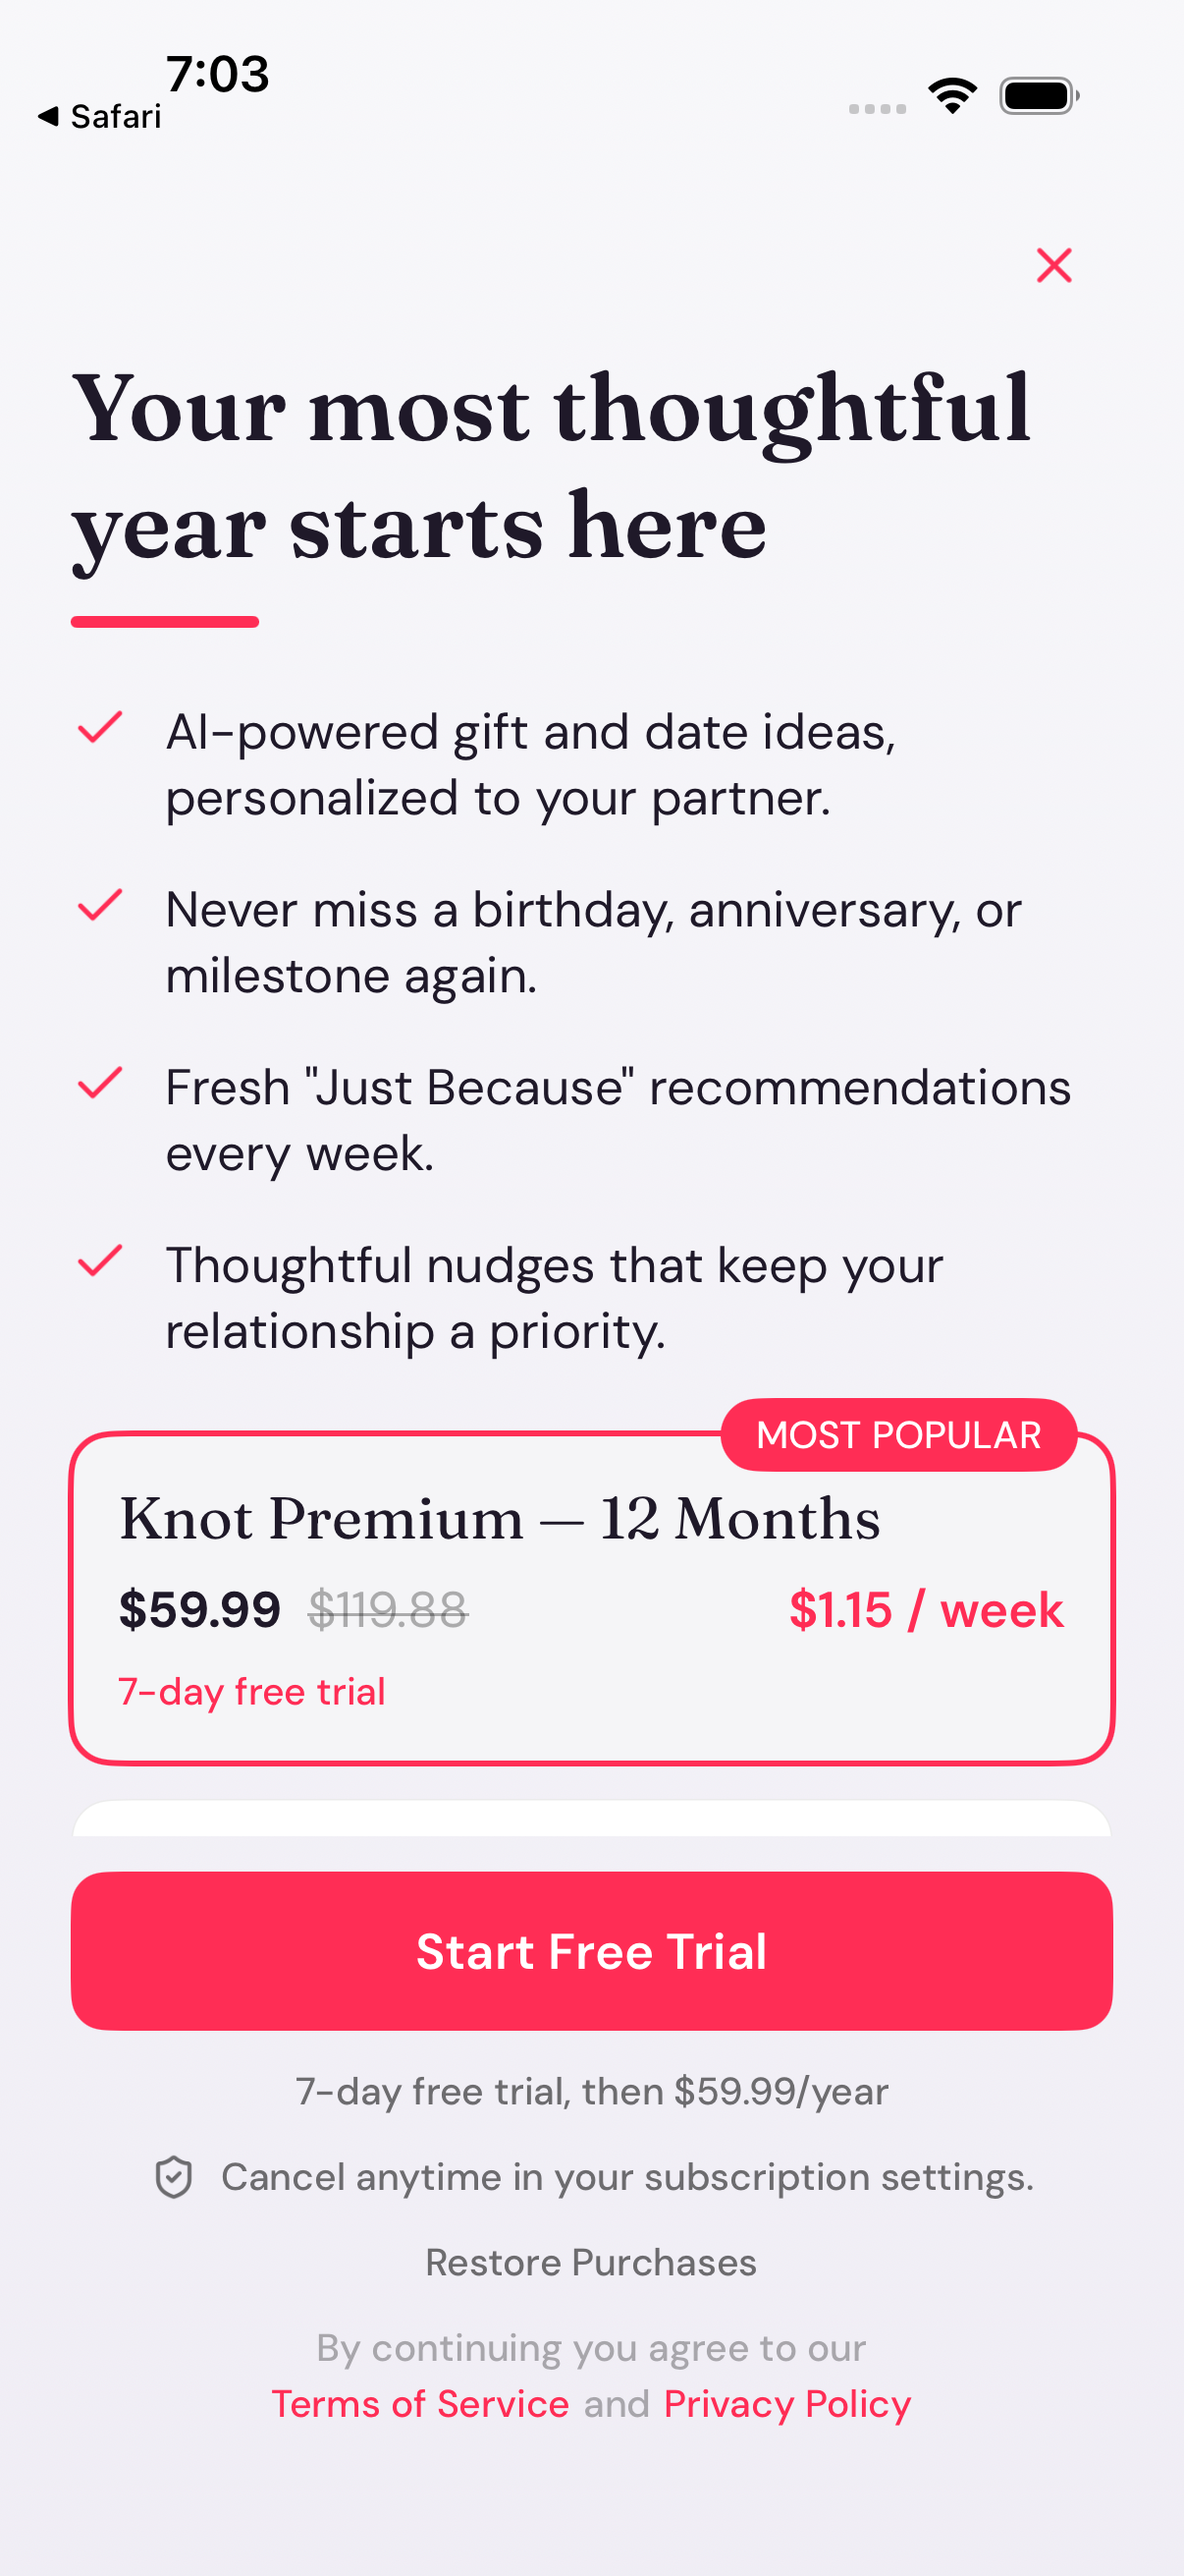
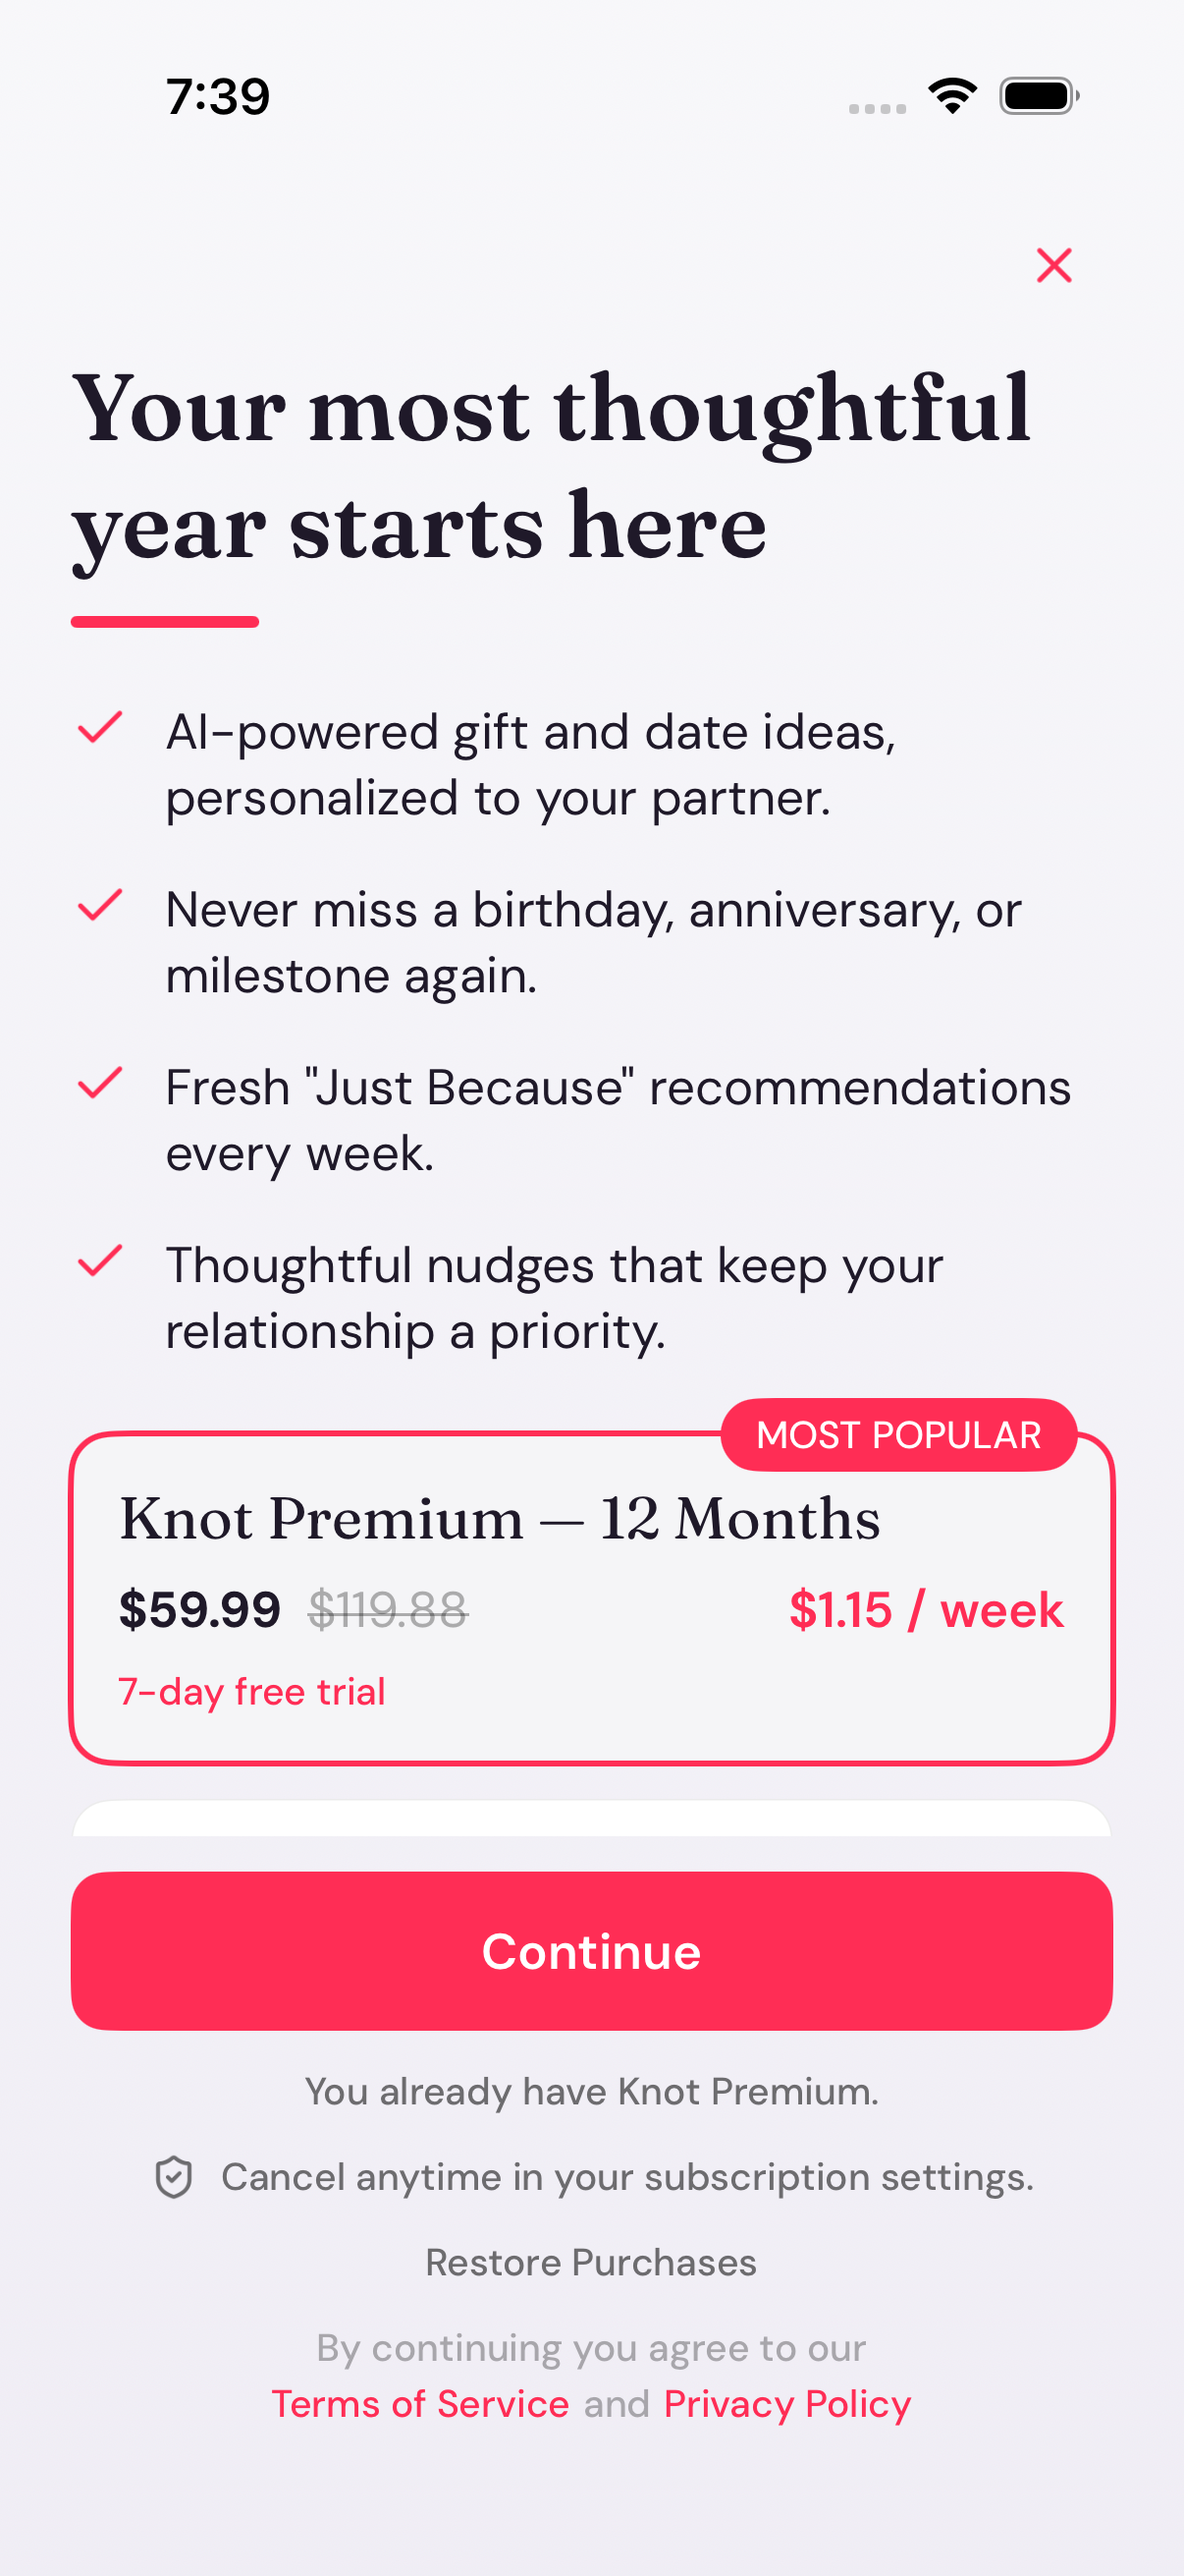
Capture the entitlement-aware "Continue" paywall state in the PR screenshot
The PR screenshot showed the paywall's default state, which is visually identical
to the pre-change "Start Free Trial" paywall, so it didn't demonstrate the actual
change. Repointed the screenshot at the already-subscribed state, where the fix is
visible: the call to action reads "Continue" and the sub-line reads "You already
have Knot Premium."

Added a DEBUG-only init(debugSubscribed:) convenience and a private
debugForceSubscribed flag to SubscriptionManager. The flag is honored in
refreshEntitlements so a forced entitlement is not reset by the paywall's task-
driven refresh, letting the screenshot harness render the subscribed state without
a live StoreKit transaction. Both are compiled out of release builds.

Added an onboardingPaywallSubscribed key to UITestScreenshotHarness (paywall backed
by a subscribed manager) alongside the existing unsubscribed onboardingPaywall key,
and pointed PRScreenshotTests at it, waiting on the "You already have Knot Premium."
sub-line. Updated architecture.md and progress.md. The full iOS test plan of 345
unit tests plus 5 UI tests passes.

Changed region(s): [[0.2454, 0.8032, 0.7363, 0.8341], [0.3375, 0.7414, 0.6443, 0.7723], [0.0614, 0.0, 0.2454, 0.0618]]

diff --git a/Knot/iOS/KnotUITests/PRScreenshotTests.swift b/Knot/iOS/KnotUITests/PRScreenshotTests.swift
@@ -24,14 +24,15 @@ final class PRScreenshotTests: XCTestCase {
         let app = XCUIApplication()
 
         // >>> NAVIGATE TO THE CHANGED SCREEN HERE <<<
-        // This change makes the end-of-onboarding paywall entitlement-aware.
-        // Render the paywall standalone via the DEBUG screenshot harness
-        // (`onboardingPaywall`) — it normally appears only after a full
-        // authenticated onboarding run — so the reviewer can see the CTA + trial
-        // copy. A fresh (unsubscribed) `SubscriptionManager` shows the standard
-        // "Start Free Trial" state; the already-subscribed "Continue" variant
-        // needs SKTestSession state the harness can't seed.
-        app.launchArguments += ["-uiTestScreenshot", "onboardingPaywall"]
+        // This change makes the end-of-onboarding paywall entitlement-aware. To
+        // actually show what changed, render the paywall in its already-subscribed
+        // state via the DEBUG screenshot harness (`onboardingPaywallSubscribed`,
+        // backed by a `SubscriptionManager(debugSubscribed:)`): the CTA reads
+        // "Continue" and the sub-line reads "You already have Knot Premium." — the
+        // state that previously showed a misleading "Start Free Trial" and silently
+        // proceeded. (The unchanged fresh-user "Start Free Trial" state is available
+        // via the `onboardingPaywall` key.)
+        app.launchArguments += ["-uiTestScreenshot", "onboardingPaywallSubscribed"]
         app.launch()
 
         // Give the view a moment to render (fonts, gradient, async layout).
@@ -41,10 +42,10 @@ final class PRScreenshotTests: XCTestCase {
         // "Apple Account Verification" iCloud prompt) so it doesn't cover the shot.
         dismissSystemAlerts()
 
-        // Wait for a stable paywall element so the screenshot captures the
-        // fully-rendered screen. The "Cancel anytime…" note is always present,
-        // independent of whether StoreKit products have loaded.
-        _ = app.staticTexts["Cancel anytime in your subscription settings."].waitForExistence(timeout: 10)
+        // Wait for the entitlement-aware sub-line so the screenshot captures the
+        // fully-rendered "Continue" state (present only once the paywall's `.task`
+        // has refreshed the forced entitlement).
+        _ = app.staticTexts["You already have Knot Premium."].waitForExistence(timeout: 10)
 
         let attachment = XCTAttachment(screenshot: app.screenshot())
         attachment.name = "PR Screenshot"

diff --git a/Knot/iOS/Knot/Services/SubscriptionManager.swift b/Knot/iOS/Knot/Services/SubscriptionManager.swift
@@ -91,6 +91,23 @@ final class SubscriptionManager {
         updatesTask?.cancel()
     }
 
+#if DEBUG
+    /// Screenshot/preview override. When true, the manager reports an active Premium
+    /// entitlement without a live StoreKit transaction so the paywall's already-
+    /// subscribed "Continue" state can be rendered deterministically — the paywall's
+    /// `.task`-driven `refreshEntitlements()` would otherwise reset `isSubscribed` to
+    /// false in a harness with no real purchase. Never set in shipping code.
+    private var debugForceSubscribed = false
+
+    /// Screenshot/preview-only convenience: a manager pre-marked as subscribed, used by
+    /// `UITestScreenshotHarness` to capture the entitlement-aware "Continue" paywall.
+    convenience init(debugSubscribed: Bool) {
+        self.init()
+        debugForceSubscribed = debugSubscribed
+        isSubscribed = debugSubscribed
+    }
+#endif
+
     // MARK: - Products
 
     /// Loads the Knot Premium products from the App Store (or the local
@@ -191,6 +208,14 @@ final class SubscriptionManager {
     /// Recomputes `isSubscribed` from the current, unexpired, non-revoked
     /// entitlements for the Knot Premium products.
     func refreshEntitlements() async {
+#if DEBUG
+        // Screenshot/preview override — keep the forced entitlement instead of
+        // recomputing it from (absent) real transactions.
+        if debugForceSubscribed {
+            isSubscribed = true
+            return
+        }
+#endif
         var active = false
         for await result in Transaction.currentEntitlements {
             guard case .verified(let transaction) = result else { continue }

diff --git a/Knot/iOS/Knot/App/UITestScreenshotHarness.swift b/Knot/iOS/Knot/App/UITestScreenshotHarness.swift
@@ -59,6 +59,8 @@ enum UITestScreenshotHarness {
             ForYouCardScreenshotHarnessView()
         case "onboardingPaywall":
             OnboardingPaywallScreenshotHarnessView()
+        case "onboardingPaywallSubscribed":
+            OnboardingPaywallSubscribedScreenshotHarnessView()
         default:
             EmptyView()
         }
@@ -75,6 +77,21 @@ private struct OnboardingPaywallScreenshotHarnessView: View {
     var body: some View {
         OnboardingPaywallView(
             subscriptionManager: SubscriptionManager(),
+            onContinue: {},
+            onClose: {}
+        )
+    }
+}
+
+/// Renders the paywall in its already-subscribed state so a screenshot shows the
+/// entitlement-aware behavior this change adds: the CTA reads "Continue" and the
+/// under-CTA line reads "You already have Knot Premium." A `SubscriptionManager`
+/// pre-marked as subscribed (DEBUG-only `init(debugSubscribed:)`) drives it — no live
+/// StoreKit transaction is needed, and the paywall's `.task` refresh preserves it.
+private struct OnboardingPaywallSubscribedScreenshotHarnessView: View {
+    var body: some View {
+        OnboardingPaywallView(
+            subscriptionManager: SubscriptionManager(debugSubscribed: true),
             onContinue: {},
             onClose: {}
         )

diff --git a/Knot/memory-bank/architecture.md b/Knot/memory-bank/architecture.md
@@ -220,7 +220,7 @@ Future files:
 | `DeviceTokenService.swift` | **Active (Step 7.4)** | `@MainActor final class: Sendable` singleton for registering APNs device tokens with the backend. Uses `static let shared` because `AppDelegate.didRegisterForRemoteNotificationsWithDeviceToken` fires before the SwiftUI view hierarchy exists, making environment injection unavailable. One public method: `registerToken(_ token: String) async` — best-effort, catches all errors and logs them without surfacing to the user. Internally calls `sendToken()` which builds a `POST /api/v1/users/device-token` request with Bearer auth from Supabase session, sends `DeviceTokenPayload` (token + "ios" platform), and checks HTTP 200 response. Follows `HintService.swift` patterns: `getAccessToken()` from `SupabaseManager.client.auth.session`, `mapURLError()` for typed `URLError` differentiation, `parseErrorMessage()` for backend error response parsing. Error enum: `DeviceTokenServiceError` with 3 cases (noAuthSession, networkError, serverError). 30-second timeout. Called by `AppDelegate` on every app launch after successful APNs registration. |
 | `MilestoneService.swift` | **Active (Step 17.1)** | `@MainActor` service for milestone CRUD API operations. Four methods: `listMilestones()` (GET), `createMilestone(_:)` (POST), `updateMilestone(id:_:)` (PUT), `deleteMilestone(id:)` (DELETE). Follows `RecommendationService` patterns with Bearer token auth, typed error enum, and `URLSession.shared`. Called by `MilestonesViewModel`. |
 | `MerchantHandoffService.swift` | **Active (Step 9.3)** | `@MainActor enum` with a single static method `openMerchantURL(urlString:recommendationId:service:)` for external merchant handoff. Opens merchant URLs using a two-step strategy: (1) tries `UIApplication.shared.open(url, options: [.universalLinksOnly: true])` to prefer the merchant's native app if installed, (2) if that returns `false`, falls back to `UIApplication.shared.open(url)` which opens in Safari. After opening, records a `"handoff"` feedback action via `RecommendationService.recordFeedback()` (fire-and-forget `Task { }`). Returns `false` for invalid/empty URLs, `true` for valid ones. Injectable `service` parameter for testability. Called by `RecommendationsViewModel.confirmSelection()` and `DeepLinkRecommendationView.openExternalURL()`. |
-| `SubscriptionManager.swift` | **Active (Step 19.8)** | `@Observable @MainActor final class` owning the StoreKit 2 subscription catalog, purchase flow, and premium entitlement for the onboarding paywall. `ProductID` constants (`com.knot.premium.annual` / `.monthly`) must match `Knot.storekit` and App Store Connect. Published state: `products` (paywall order), `productsLoaded`, `isPurchasing`, `purchaseError?`, `isSubscribed` (always derived from `Transaction.currentEntitlements`, never persisted, so it can't leak premium across app accounts on one device; recomputed even when product loading fails). Methods: `loadProducts()` (`Product.products(for:)`, sorted, then refresh entitlement), `product(for:)` (by `PaywallPlan.productID`), `purchase(_:)` → `Bool` (runs `product.purchase()`, `checkVerified` → `transaction.finish()` → refresh; user-cancel/pending return `false` with no error; genuine failures set `purchaseError`), `restorePurchases()` (`AppStore.sync()` then refresh), `refreshEntitlements()` (recompute from unexpired/non-revoked auto-renewable entitlements). A `Transaction.updates` listener task (started in `init`, cancelled in `deinit` via `@ObservationIgnored nonisolated(unsafe)` storage) keeps the entitlement current for renewals/deferred approvals. Display helpers: `trialLabel(for:)` ("7-day free trial"), `renewalLabel(for:)` ("$9.99/month"), plus `Product.SubscriptionPeriod` formatting (`knotShortLabel`/`knotUnitLabel`, weeks expanded to days). **Client-side only** — server-side receipt validation / entitlement sync is a follow-up. Owned by `OnboardingContainerView`; covered by `SubscriptionManagerTests` (StoreKitTest `SKTestSession`). |
+| `SubscriptionManager.swift` | **Active (Step 19.8)** | `@Observable @MainActor final class` owning the StoreKit 2 subscription catalog, purchase flow, and premium entitlement for the onboarding paywall. `ProductID` constants (`com.knot.premium.annual` / `.monthly`) must match `Knot.storekit` and App Store Connect. Published state: `products` (paywall order), `productsLoaded`, `isPurchasing`, `purchaseError?`, `isSubscribed` (always derived from `Transaction.currentEntitlements`, never persisted, so it can't leak premium across app accounts on one device; recomputed even when product loading fails). Methods: `loadProducts()` (`Product.products(for:)`, sorted, then refresh entitlement), `product(for:)` (by `PaywallPlan.productID`), `purchase(_:)` → `Bool` (runs `product.purchase()`, `checkVerified` → `transaction.finish()` → refresh; user-cancel/pending return `false` with no error; genuine failures set `purchaseError`), `restorePurchases()` (`AppStore.sync()` then refresh), `refreshEntitlements()` (recompute from unexpired/non-revoked auto-renewable entitlements). A `Transaction.updates` listener task (started in `init`, cancelled in `deinit` via `@ObservationIgnored nonisolated(unsafe)` storage) keeps the entitlement current for renewals/deferred approvals. Display helpers: `trialLabel(for:)` ("7-day free trial"), `renewalLabel(for:)` ("$9.99/month"), plus `Product.SubscriptionPeriod` formatting (`knotShortLabel`/`knotUnitLabel`, weeks expanded to days). **Client-side only** — server-side receipt validation / entitlement sync is a follow-up. Owned by `OnboardingContainerView`; covered by `SubscriptionManagerTests` (StoreKitTest `SKTestSession`). **Step 19.13:** added a DEBUG-only `init(debugSubscribed:)` + private `debugForceSubscribed` flag (honored in `refreshEntitlements()`) so the screenshot harness (`onboardingPaywallSubscribed`) can render the paywall's already-subscribed "Continue" state without a live transaction; compiled out of release. |
 
 #### `/Models` — Data Models
 | File | Purpose |

diff --git a/Knot/memory-bank/progress.md b/Knot/memory-bank/progress.md
@@ -7029,7 +7029,8 @@ Like Step 18.22, the weight is baked into the token at definition time — never
 
 **What changed (iOS):**
 - **`iOS/Knot/Features/Onboarding/Steps/OnboardingPaywallView.swift`:** Extracted the CTA-title decision into a pure, testable `static func ctaTitle(isSubscribed:hasTrial:productsLoaded:)` returning `"Continue"` when already subscribed, `"Start Free Trial"` when a trial is available or products haven't loaded (both plans are trial-eligible by design), else `"Subscribe"`; the `ctaTitle` computed property now calls it. `startPurchase()` short-circuits to `onContinue()` when `isSubscribed` (nothing to buy) instead of running a purchase. A new `ctaDetailText` renders "You already have Knot Premium." under the CTA when subscribed, otherwise the existing "7-day free trial, then $X/period" line.
-- **Screenshot seam (`iOS/KnotUITests/PRScreenshotTests.swift`):** repointed the navigation slot at the existing `onboardingPaywall` harness key (waiting on the always-present "Cancel anytime…" note). The harness uses a fresh (unsubscribed) `SubscriptionManager`, so the shot shows the standard "Start Free Trial" state; the already-subscribed "Continue" variant needs `SKTestSession` state the screenshot harness can't seed.
+- **`iOS/Knot/Services/SubscriptionManager.swift`:** added a DEBUG-only `init(debugSubscribed:)` convenience and a private `debugForceSubscribed` flag honored in `refreshEntitlements()` (returns an active entitlement without a live StoreKit transaction, and isn't reset by the paywall's `.task` refresh). This exists purely so the screenshot harness can render the entitlement-aware "Continue" state deterministically; it is compiled out of release builds.
+- **Screenshot seam (`iOS/Knot/App/UITestScreenshotHarness.swift` + `iOS/KnotUITests/PRScreenshotTests.swift`):** added an `onboardingPaywallSubscribed` harness key (paywall backed by `SubscriptionManager(debugSubscribed: true)`) alongside the existing unsubscribed `onboardingPaywall` key, and pointed the PR screenshot test at it (waiting on the "You already have Knot Premium." sub-line) so the captured image actually shows the change — the "Continue" CTA — rather than a paywall visually identical to the pre-change "Start Free Trial" state.
 
 **Tests:** New `OnboardingPaywallViewTests` cases pin the CTA helper: "Continue" when subscribed (even with a trial/unloaded products), "Start Free Trial" when a trial is available or before products load, "Subscribe" when loaded with no trial. Full `KnotTests` Unit plan green (345 tests); paywall screenshot captured via `capture-ui-screenshot.sh`.
 
